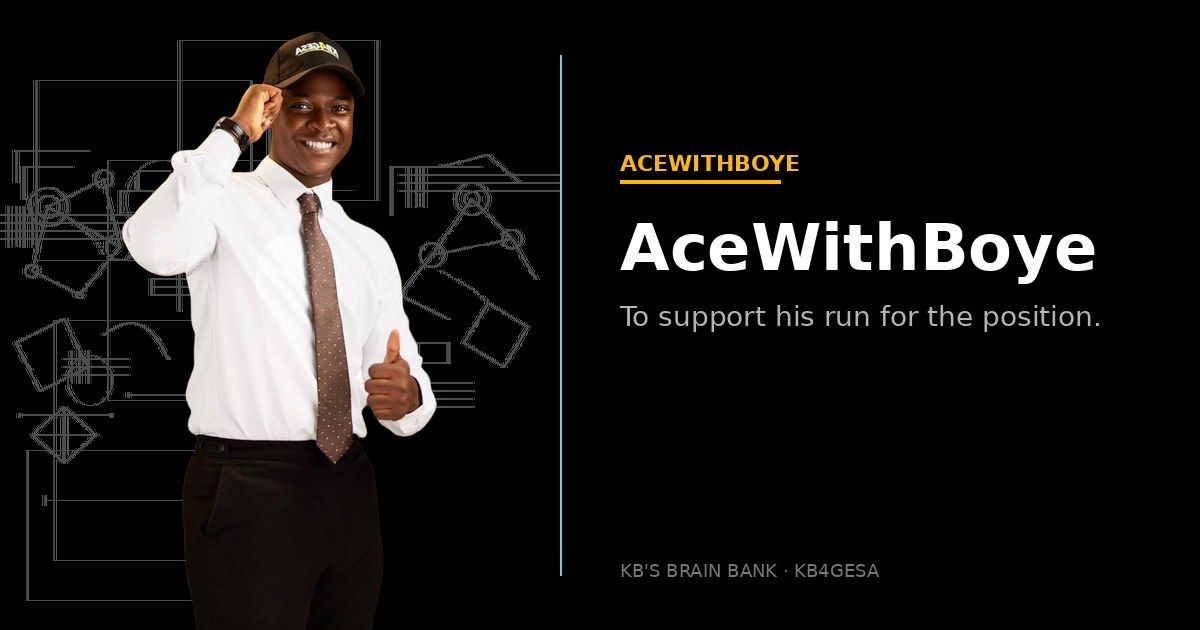
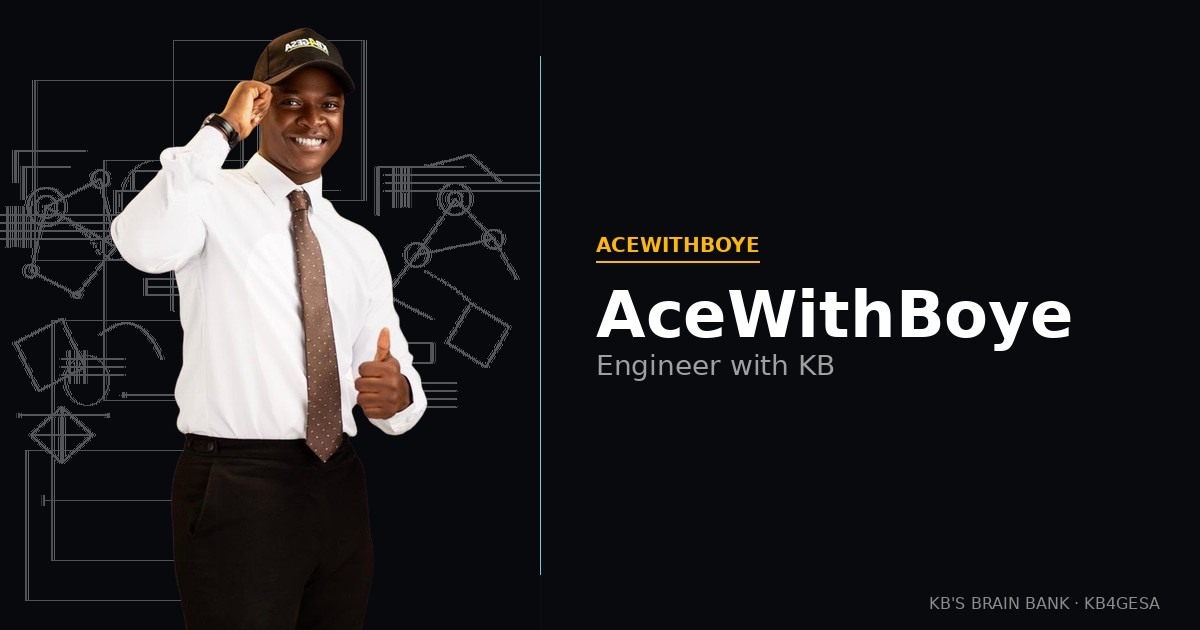
Replace campaign OG line with Engineer with KB
Drop “To support his run for the position” from homepage meta and the
homepage share card. Keep AceWithBoye branding; subtitle is now study-first.

diff --git a/index.html b/index.html
@@ -17,16 +17,16 @@
   <meta property="og:site_name" content="AceWithBoye" />
   <meta property="og:url" content="https://boye.study/" />
   <meta property="og:title" content="AceWithBoye" />
-  <meta property="og:description" content="To support his run for the position." />
-  <meta property="og:image" content="https://boye.study/assets/og/homepage-card.jpg" />
+  <meta property="og:description" content="Engineer with KB." />
+  <meta property="og:image" content="https://boye.study/assets/og/homepage-card.jpg?v=engineer-kb" />
   <meta property="og:image:width" content="1200" />
   <meta property="og:image:height" content="630" />
-  <meta property="og:image:alt" content="AceWithBoye — To support his run for the position." />
+  <meta property="og:image:alt" content="AceWithBoye — Engineer with KB." />
   <meta name="twitter:card" content="summary_large_image" />
   <meta name="twitter:title" content="AceWithBoye" />
-  <meta name="twitter:description" content="To support his run for the position." />
-  <meta name="twitter:image" content="https://boye.study/assets/og/homepage-card.jpg" />
-  <meta name="description" content="AceWithBoye — To support his run for the position. KB'S BRAIN BANK for KB4GESA." />
+  <meta name="twitter:description" content="Engineer with KB." />
+  <meta name="twitter:image" content="https://boye.study/assets/og/homepage-card.jpg?v=engineer-kb" />
+  <meta name="description" content="AceWithBoye — Engineer with KB. KB'S BRAIN BANK for KB4GESA." />
   <link rel="preconnect" href="https://fonts.googleapis.com" />
   <link rel="preconnect" href="https://fonts.gstatic.com" crossorigin />
   <link href="https://fonts.googleapis.com/css2?family=DM+Sans:ital,opsz,wght@0,9..40,400;0,9..40,500;0,9..40,600;0,9..40,700;1,9..40,400&family=Syne:wght@600;700;800&display=swap" rel="stylesheet" />
